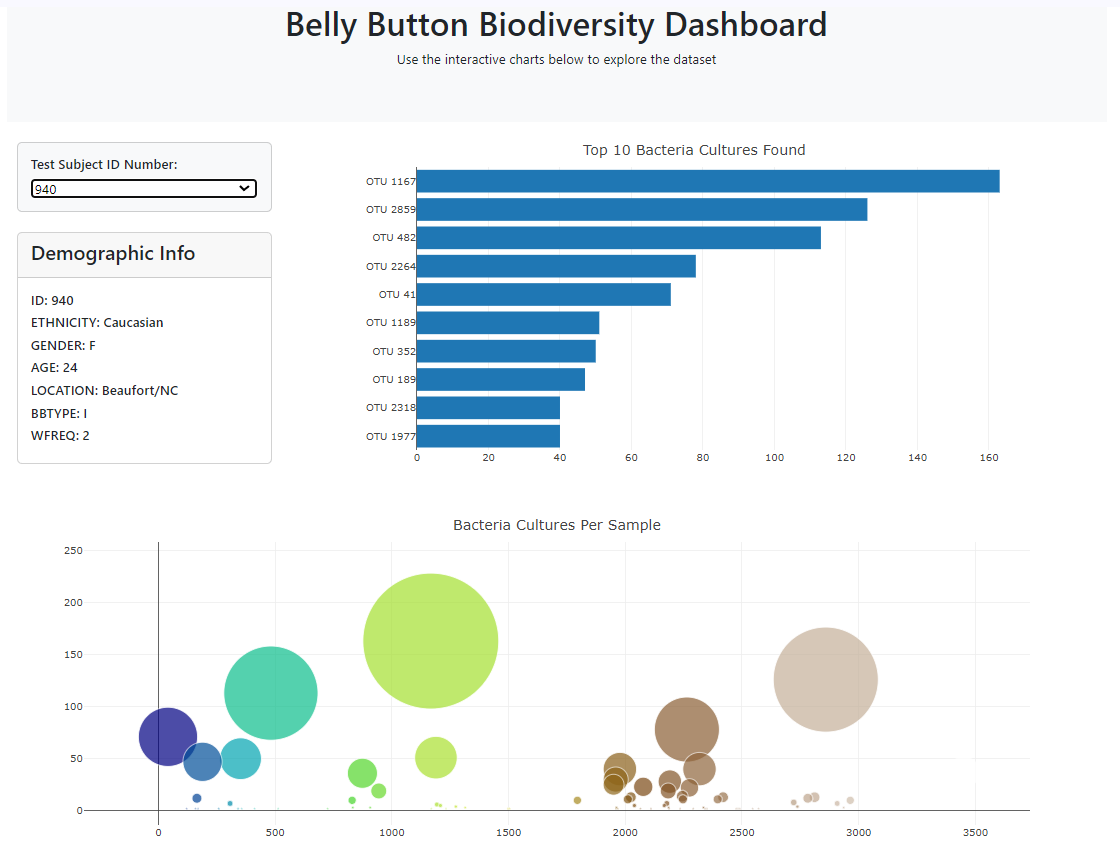
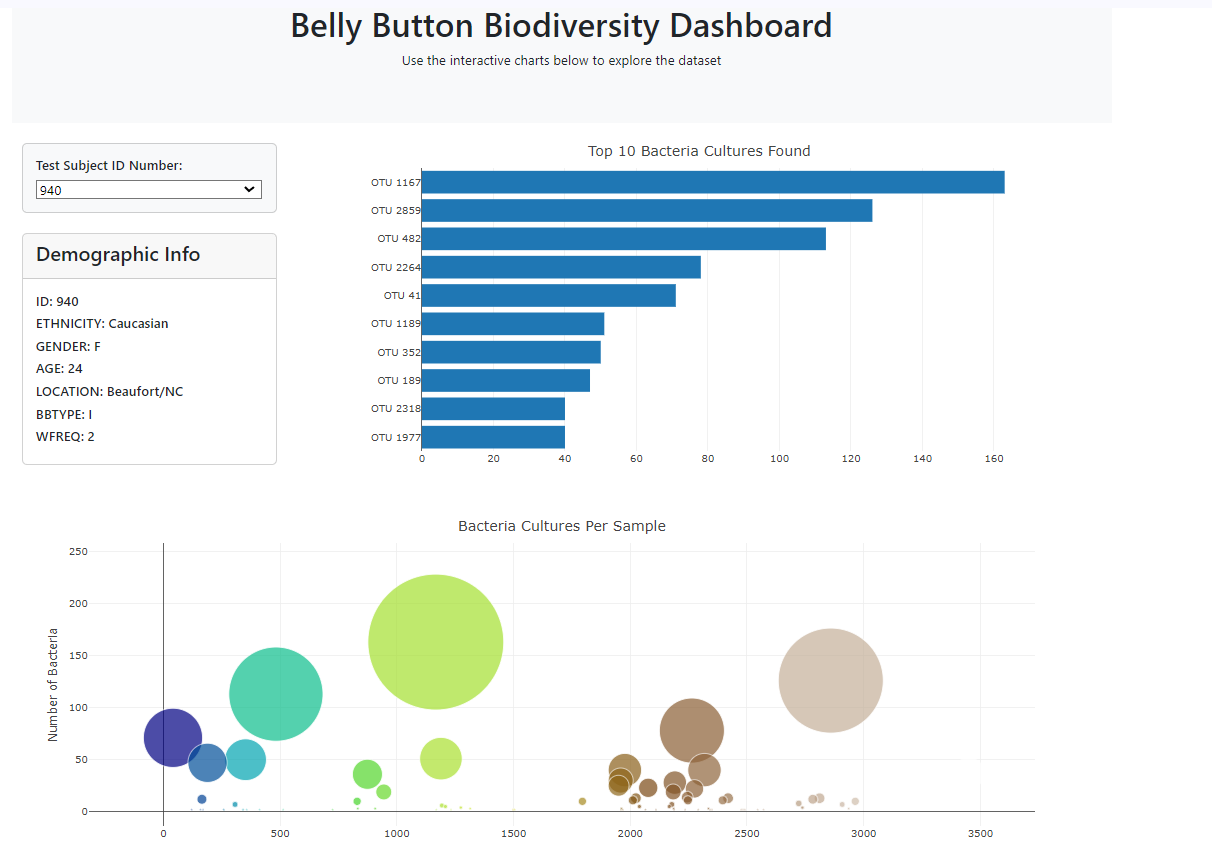
update the repo with final version

diff --git a/static/js/app.js b/static/js/app.js
@@ -69,7 +69,8 @@ function buildCharts(sample) {
       title: 'Bacteria Cultures Per Sample',
       margin: { t: 30 },
       hovermode: 'closest',
-      xaxis: { title: 'OTU ID' }
+      xaxis: { title: 'OTU ID' },
+      yaxis: { title: 'Number of Bacteria' }
     };
 
 
